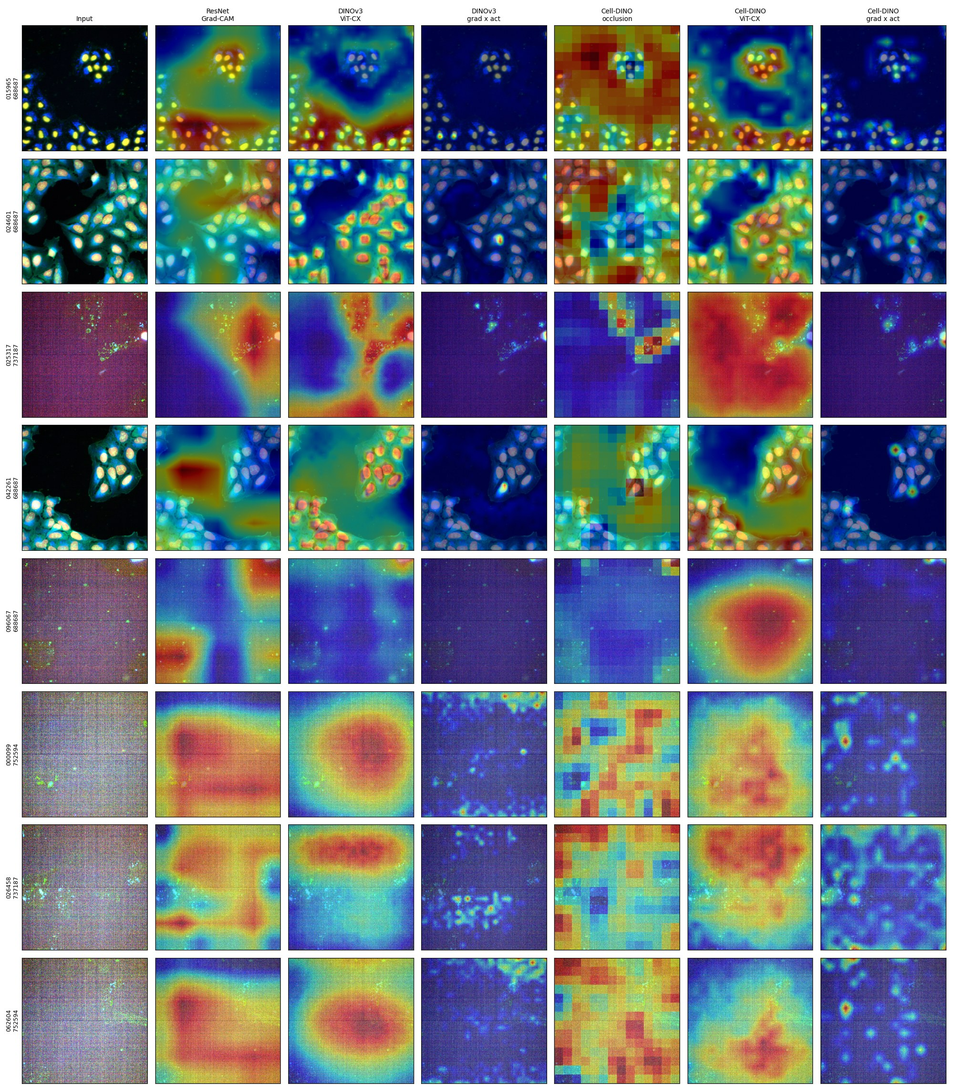
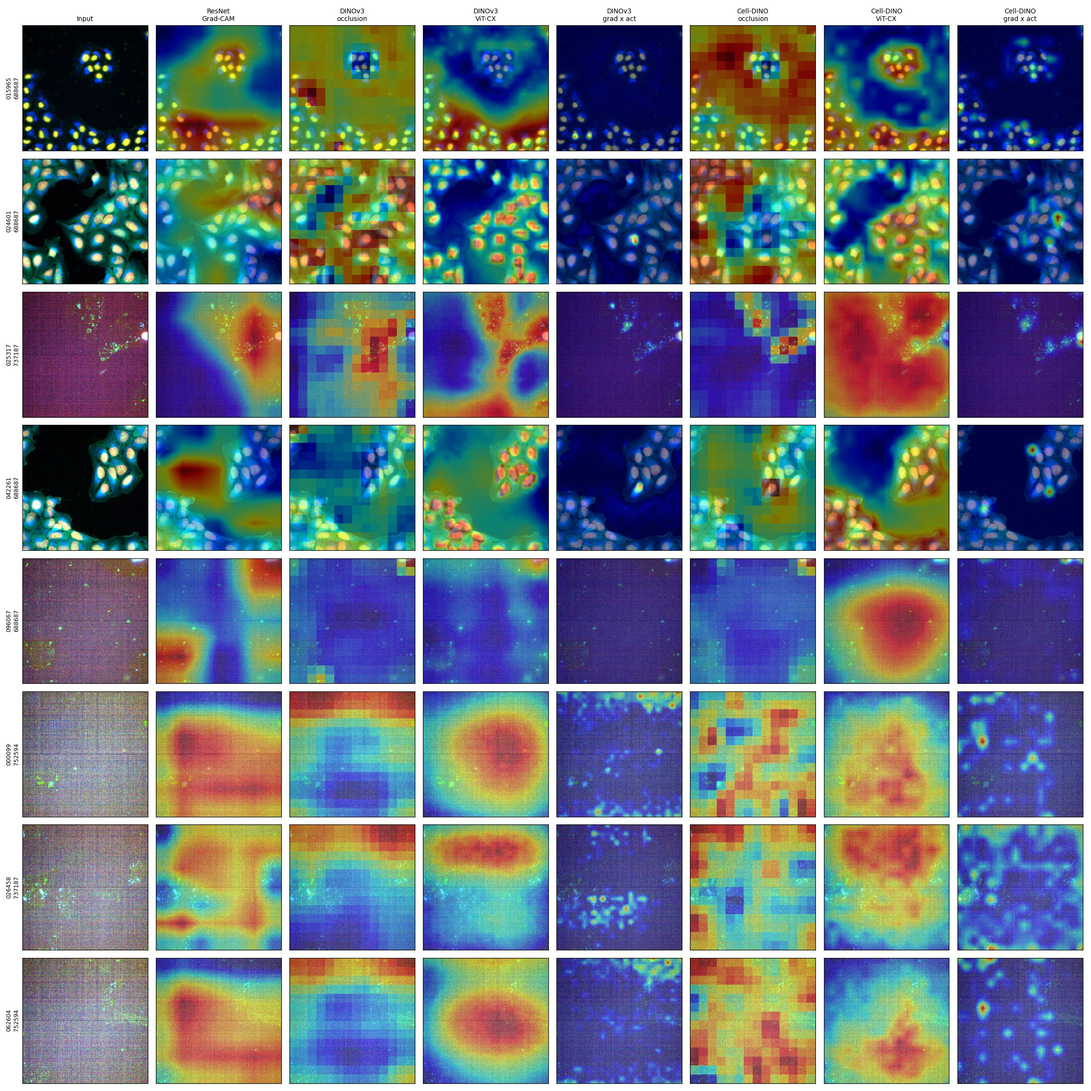
Explainability: add DINOv3 occlusion to pilot panels and interval tables

diff --git a/make_panel.py b/make_panel.py
@@ -8,6 +8,7 @@ from scipy.ndimage import gaussian_filter, zoom
 
 # (column title, dir glob under root, substring of npz key)
 COLS = [
+    ("DINOv3\nocclusion", "vitcx_occlusion-dinov3*", "occl"),
     ("DINOv3\nViT-CX", "vitcx_dinov3*r448_r448", "paper"),
     ("DINOv3\ngrad x act", "vitcx_gradcam-dinov3*", "gradxact"),
     ("Cell-DINO\nocclusion", "vitcx_occlusion-celldino*", "occl"),

diff --git a/results_showcase/explainability/README.md b/results_showcase/explainability/README.md
@@ -7,7 +7,7 @@ Metrics: deletion and insertion AUC (20 steps), each standardized (z) against 10
 ## Folders
 
 * `random_65_targets/` is the main result. 65 randomly sampled (compound, assay) targets (13 per fold, folds 0-4, 30 positives, 35 negatives, 27 assays). panel_1 to panel_9 (jpg) show side-by-side heat maps (ResNet Grad-CAM and five frozen-model methods, 8 targets per panel). agg_r65.csv has faithfulness by method and group, enrich_r65.csv and enrichment_per_target.csv have cell enrichment, bootstrap_ci.csv the intervals, targets_random65.csv the target list, and contact_sheets/ the numbered images used to label image types by eye (57 normal, 6 sparse, 2 noise).
-* `pilot_16_targets/` is an earlier pilot on 16 targets that were the ResNet's most confident cases (half were noise images). It overstated every method and is kept for transparency only. It holds report_figure.png (three example images), panel_1 and panel_2 (jpg) and CSVs with intervals and the image-type split.
+* `pilot_16_targets/` is an earlier pilot on 16 targets that were the ResNet's most confident cases (half were noise images). It overstated every method and is kept for transparency only. It holds report_figure.png (three example images), panel_1 and panel_2 (jpg; heat maps of ResNet Grad-CAM and six frozen-model methods: DINOv3 occlusion, ViT-CX and grad x act, Cell-DINO occlusion, ViT-CX and grad x act) and CSVs with intervals and the image-type split. DINOv3 occlusion on the 16 pilot targets: deletion z -4.85 (-8.01 to -2.22), insertion z -1.01 (-4.48 to 2.09), enrichment 0.96 (0.84 to 1.08).
 
 ## Main result (65 random targets)
 
